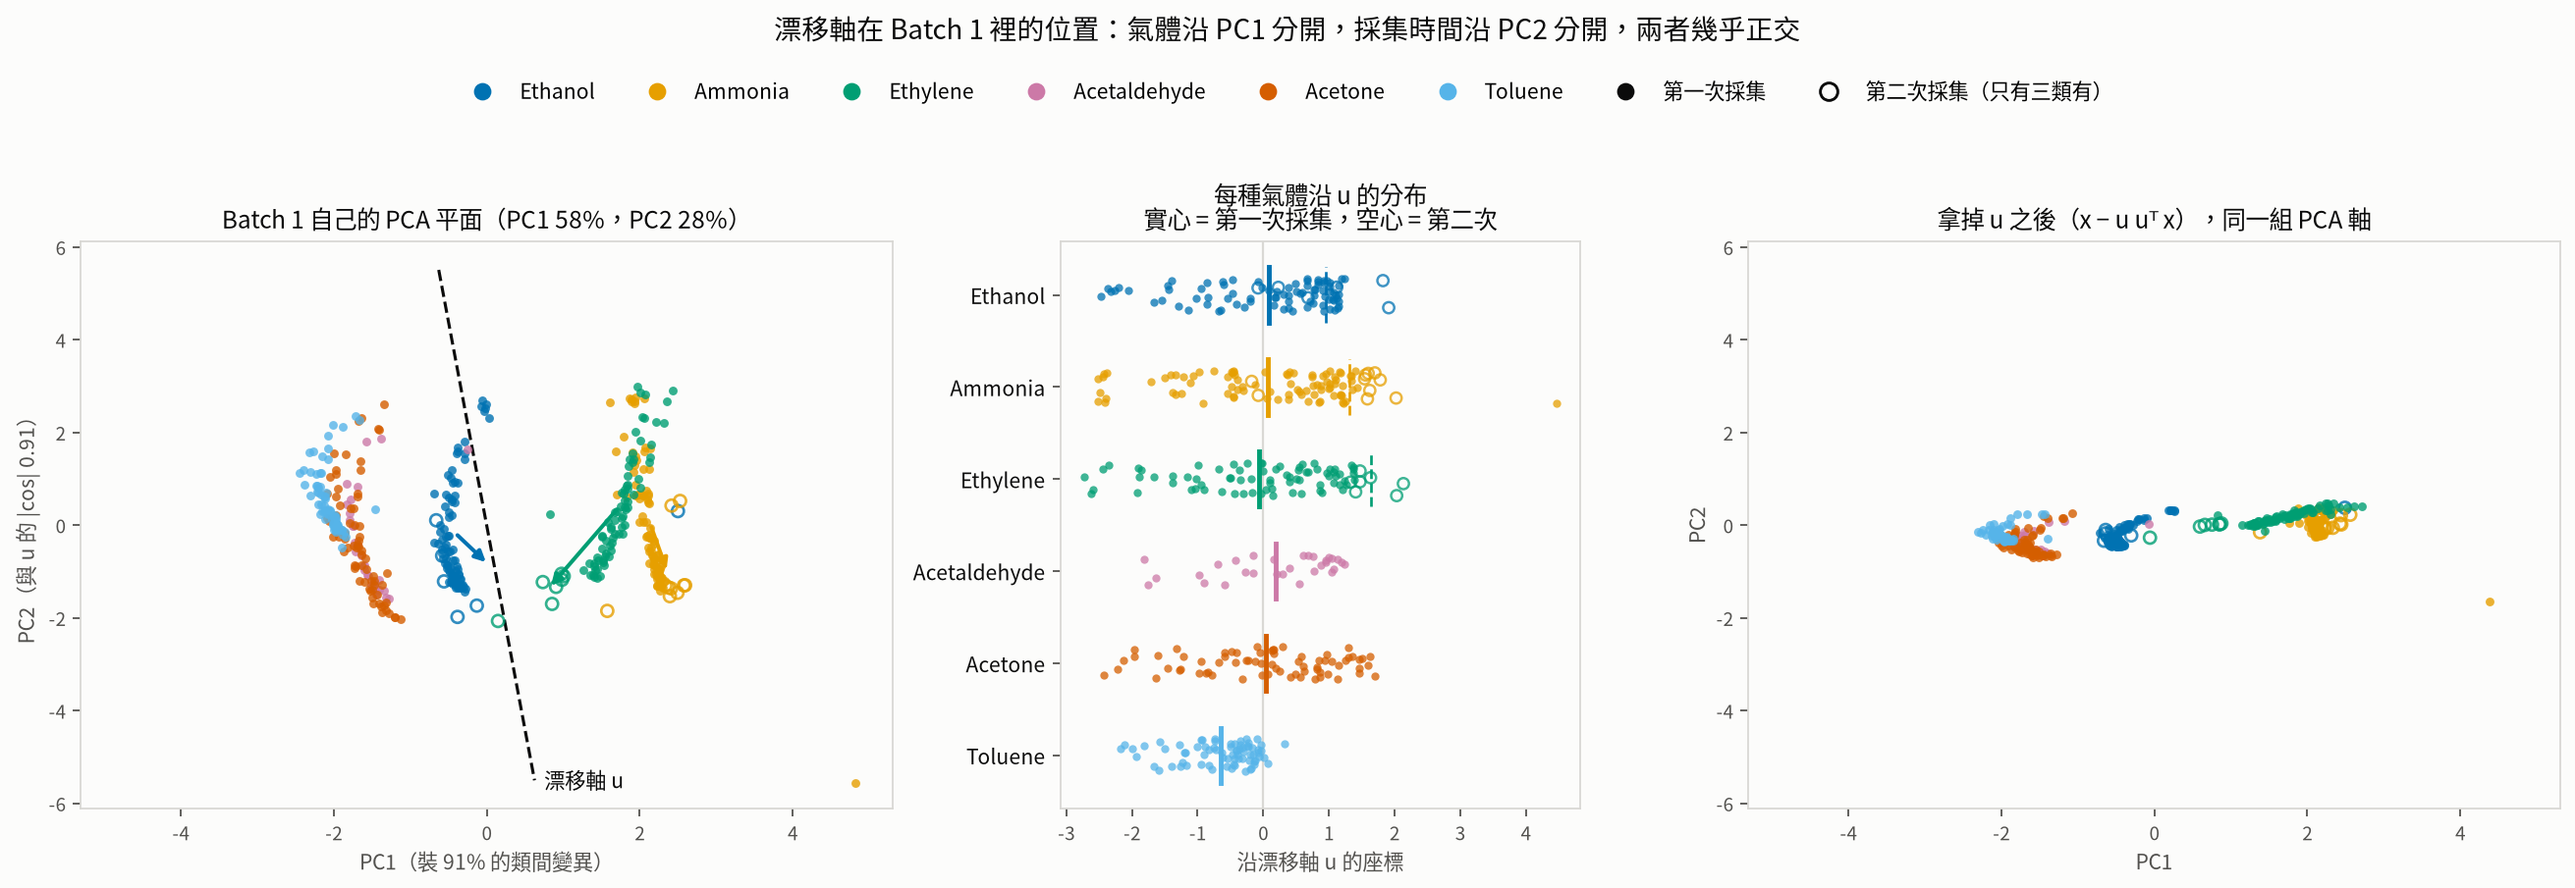
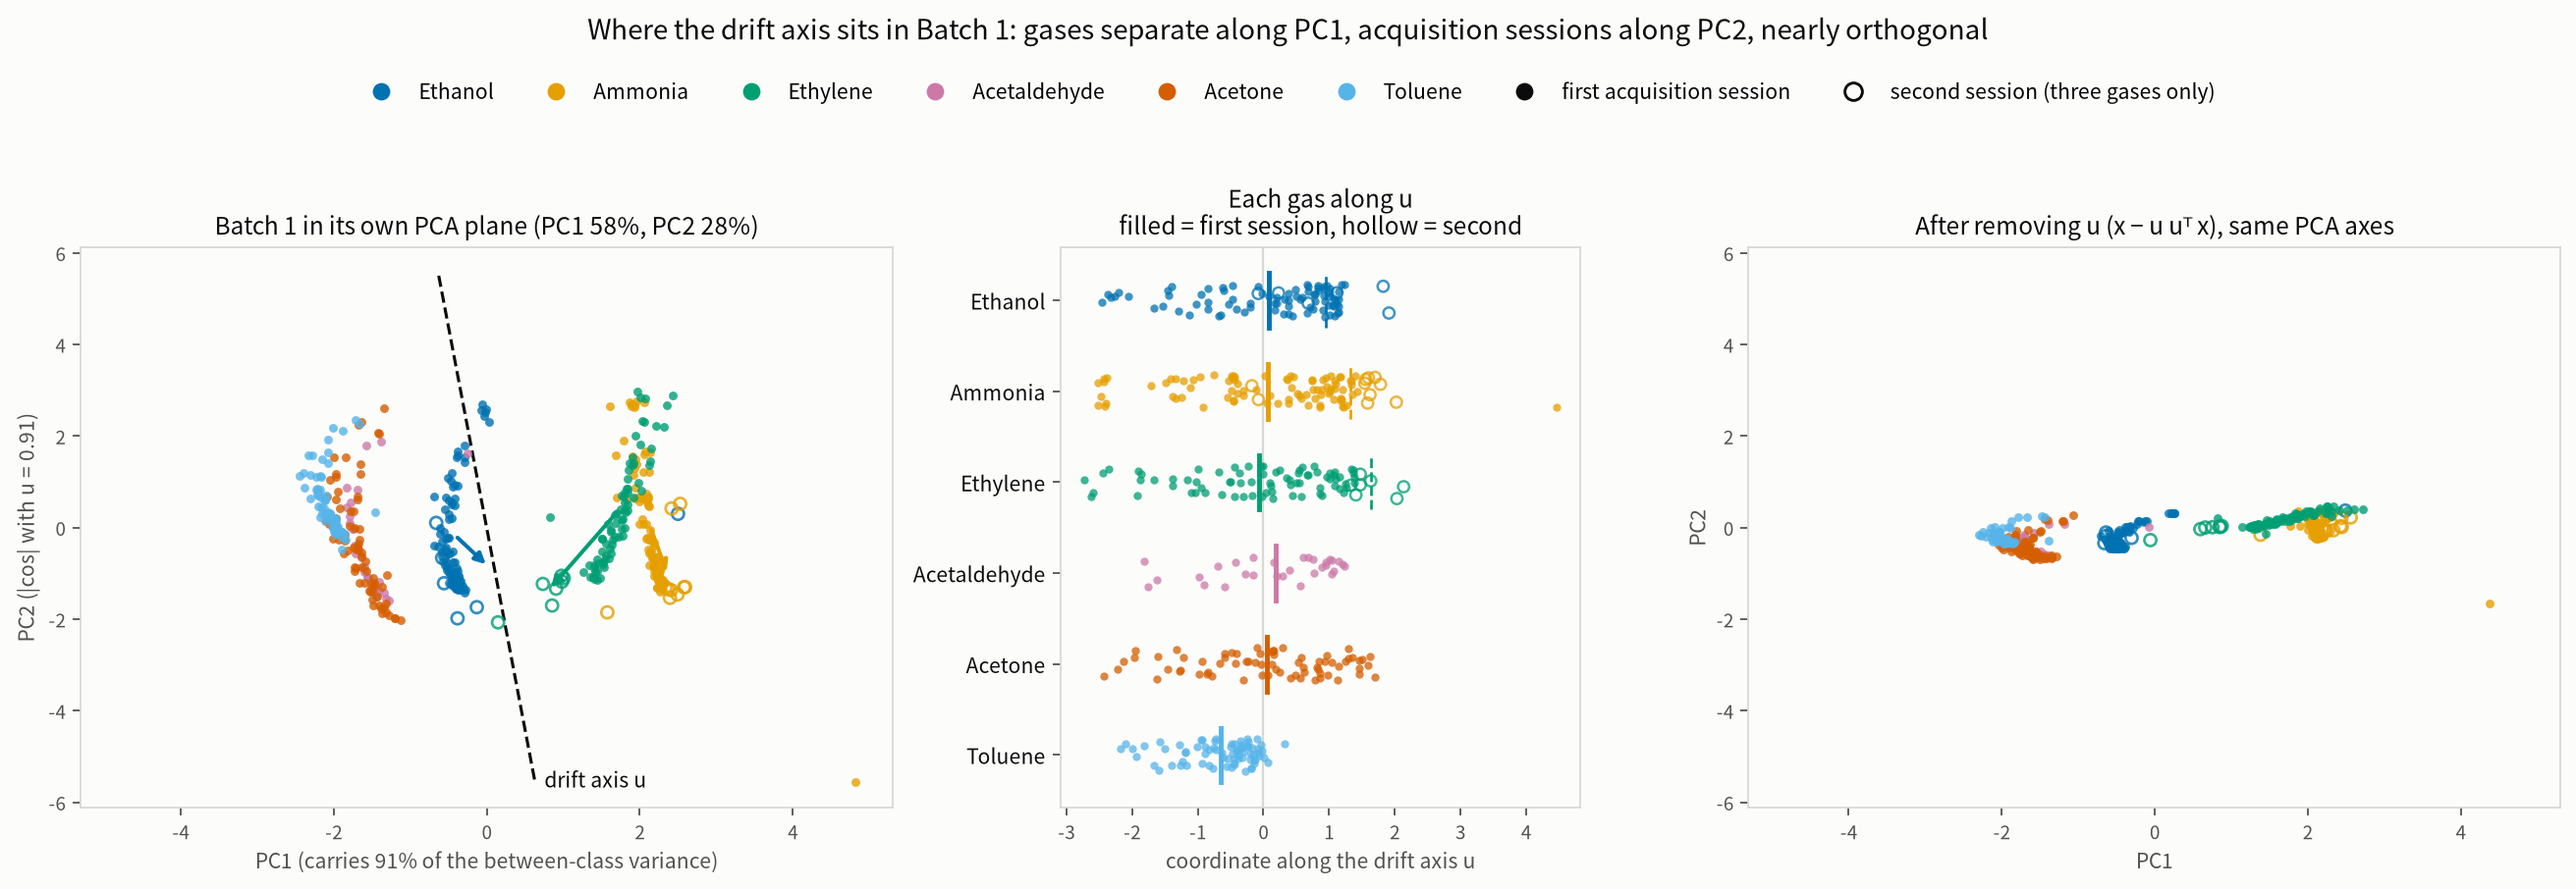
Write up v12 step 0 in English, with the drift-axis figure in English

diff --git a/scripts/make_batch1_drift_axis_figure.py b/scripts/make_batch1_drift_axis_figure.py
@@ -102,7 +102,7 @@ def main() -> int:
     # left: the plane, the session offsets, the common axis
     ax = axes[0]
     scatter_plane(ax, plane, y, second,
-                  title=f"Batch 1 自己的 PCA 平面（PC1 {share[0]:.0%}，PC2 {share[1]:.0%}）")
+                  title=f"Batch 1 in its own PCA plane (PC1 {share[0]:.0%}, PC2 {share[1]:.0%})")
     for label, off in offsets.items():
         a = (z[y == label][second[y == label] == 0].mean(axis=0) - centre) @ basis
         b = (z[y == label][second[y == label] == 1].mean(axis=0) - centre) @ basis
@@ -115,10 +115,10 @@ def main() -> int:
     ax.plot([-reach * direction[0], reach * direction[0]],
             [-reach * direction[1], reach * direction[1]],
             color=INK, lw=1.4, ls="--", zorder=2)
-    ax.text(reach * direction[0], reach * direction[1], "  漂移軸 u", fontsize=9.5,
+    ax.text(reach * direction[0], reach * direction[1], "  drift axis u", fontsize=9.5,
             color=INK, va="center")
-    ax.set_xlabel("PC1（裝 91% 的類間變異）", fontsize=9.5, color=MUTED)
-    ax.set_ylabel("PC2（與 u 的 |cos| 0.91）", fontsize=9.5, color=MUTED)
+    ax.set_xlabel("PC1 (carries 91% of the between-class variance)", fontsize=9.5, color=MUTED)
+    ax.set_ylabel("PC2 (|cos| with u = 0.91)", fontsize=9.5, color=MUTED)
     ax.set_xlim(-span[0], span[0]); ax.set_ylim(-span[1], span[1])
 
     # middle: coordinate along u, per class, by session
@@ -140,13 +140,13 @@ def main() -> int:
     ax.axvline(0, color=GRID, lw=1, zorder=1)
     ax.set_yticks(range(len(ORDER)))
     ax.set_yticklabels([GAS_LABELS[l] for l in reversed(ORDER)], fontsize=9.5, color=INK)
-    ax.set_xlabel("沿漂移軸 u 的座標", fontsize=9.5, color=MUTED)
-    ax.set_title("每種氣體沿 u 的分布\n實心 = 第一次採集，空心 = 第二次", fontsize=11, color=INK)
+    ax.set_xlabel("coordinate along the drift axis u", fontsize=9.5, color=MUTED)
+    ax.set_title("Each gas along u\nfilled = first session, hollow = second", fontsize=11, color=INK)
 
     # right: after projection, same basis
     ax = axes[2]
     scatter_plane(ax, plane_after, y, second,
-                  title="拿掉 u 之後（x − u uᵀ x），同一組 PCA 軸")
+                  title="After removing u (x − u uᵀ x), same PCA axes")
     ax.set_xlabel("PC1", fontsize=9.5, color=MUTED)
     ax.set_ylabel("PC2", fontsize=9.5, color=MUTED)
     ax.set_xlim(-span[0], span[0]); ax.set_ylim(-span[1], span[1])
@@ -158,10 +158,10 @@ def main() -> int:
                        markeredgecolor=INK),
                 Line2D([], [], ls="none", marker="o", markersize=8, markerfacecolor="none",
                        markeredgecolor=INK, markeredgewidth=1.3)]
-    names = [GAS_LABELS[l] for l in ORDER] + ["第一次採集", "第二次採集（只有三類有）"]
+    names = [GAS_LABELS[l] for l in ORDER] + ["first acquisition session", "second session (three gases only)"]
     figure.legend(handles, names, loc="upper center", ncol=8, frameon=False,
                   fontsize=9.5, bbox_to_anchor=(0.5, 0.985))
-    figure.suptitle("漂移軸在 Batch 1 裡的位置：氣體沿 PC1 分開，採集時間沿 PC2 分開，兩者幾乎正交",
+    figure.suptitle("Where the drift axis sits in Batch 1: gases separate along PC1, acquisition sessions along PC2, nearly orthogonal",
                     fontsize=12.5, color=INK, y=1.04)
     figure.tight_layout(rect=(0, 0, 1, 0.93))
     out = ROOT / "reports" / "figures" / "batch1_drift_axis.png"

diff --git a/docs/v12-step0-separability.md b/docs/v12-step0-separability.md
@@ -1,0 +1,154 @@
+# v12 step 0: Batch 1 stays separable with the drift axis removed
+
+Measured 2026-10-05 on Batch 1 alone. No target file was opened, no checkpoint
+was used, no GPU time was spent. Script: `scripts/measure_projection_separability.py`;
+numbers: `reports/projection_separability.json`; figure:
+`scripts/make_batch1_drift_axis_figure.py`.
+
+This is the gate `proposal-v12.md` declares before any training: if removing
+the drift subspace destroys the class structure of Batch 1, the rest of v12 is
+not worth running.
+
+## The candidate subspaces
+
+All three are built from the same raw material. Three of the six gases were
+acquired twice in Batch 1 (Ethanol, Ammonia, Ethylene; `src/augment.py:SOURCE_BLOCKS`).
+For each, the second-session centroid minus the first-session centroid is one
+128-dimensional offset vector. The candidates differ only in how the three
+vectors are used:
+
+| candidate | construction | k | status |
+|---|---|---:|---|
+| `eth` | Ethanol's offset alone | 1 | target-informed: that Ethanol's offset aligns best with the real drift was learned against target data |
+| `offset-axis` (called `pc1` in the JSON) | the three offsets normalised, stacked 3 x 128, uncentred SVD, first right singular vector | 1 | source-only: the single line the three offsets share, no gas chosen, sign-indifferent |
+| `sub3` | the span of all three offsets, QR basis | 3 | source-only: no choice at all |
+
+The projection is `x' = x - U U^T x` applied in the signed-log -> per-sample
+space, the same space the network reads.
+
+## Where the axis sits
+
+![Batch 1 drift axis](../reports/figures/batch1_drift_axis.png)
+
+Left: Batch 1 in its own PCA plane. The gases separate along PC1, which carries
+91 % of the between-class variance. The arrows join each gas's first-session
+centroid to its second-session centroid; all three point the same way, nearly
+perpendicular to PC1. The dashed line is the common offset axis `u`.
+
+Middle: each gas's coordinate along `u`. The second sessions (hollow) sit about
+one unit to the right of the first sessions (filled) for all three gases, and
+the six gases are centred on the same place, so `u` carries time and almost no
+gas identity.
+
+Right: the same points after `x - u u^T x`, in the same PCA basis. Each gas
+collapses to a line; second-session points land on first-session points; the
+positions along PC1 are unchanged.
+
+The relation to Batch 1's ordinary PCA, measured:
+
+| Batch 1 PCA axis | total variance | between-class variance | \|cos\| with `u` |
+|---|---:|---:|---:|
+| PC1 | 58.3 % | 91 % | 0.10 |
+| PC2 | 27.6 % | 3 % | **0.91** |
+| PC3 | 6.1 % | 0.5 % | 0.09 |
+
+`u` is not Batch 1's first principal component. PC1 is the gas axis; `u` is
+0.91 aligned with PC2. The three individual offsets align with `u` at 0.90,
+0.98 and 0.81, so the three gases' session displacements do share a line.
+
+**One thing the figure shows that the numbers did not.** Within each gas the
+points form a long streak, and the streak runs roughly along `u` too. That is
+within-class variation, most likely concentration, and it is nearly parallel to
+the session offset. Removing `u` therefore removes most of the within-class
+spread together with the session offset. For classification that is welcome,
+but `u` mixes "time" with "concentration" and the projection does not tell
+them apart.
+
+## The gate: five-fold cross-validation on Batch 1
+
+Folds are the fixed stratified folds of `src/cv.py` (seed 20260923). The two
+classifiers are stand-ins for the network, which needs the normaliser
+implemented first; the network's own CV is the formal gate in step 1.
+
+| 5-fold CV on Batch 1 | none | `eth` k=1 | `offset-axis` k=1 | `sub3` k=3 |
+|---|---:|---:|---:|---:|
+| nearest centroid | 0.850 | 0.859 | **0.928** | 0.901 |
+| logistic regression | 0.962 | 0.953 | 0.955 | 0.951 |
+
+**All three candidates pass.** Logistic regression drops by at most 0.011
+against the declared ceiling of 0.02.
+
+Nearest-centroid accuracy rises rather than falls, from 0.850 to 0.928 under
+`offset-axis`. Batch 1's within-class radius already contains its own
+two-session offset; removing that axis tightens every cloud and the centroids
+separate better. This is a source-internal check of the idea that needs no
+target data.
+
+## What the removed subspace carried
+
+| | `eth` | `offset-axis` | `sub3` |
+|---|---:|---:|---:|
+| share of Batch 1's total variance removed | 0.285 | 0.236 | **0.739** |
+| share of between-class variance removed | 0.213 | **0.028** | **0.764** |
+
+`offset-axis` has the profile a drift axis should have: it carries 24 % of the
+total variance and only 3 % of the between-class variance, so it is almost
+entirely within-class (session-to-session) variation.
+
+`sub3` removes 76 % of the between-class variance. Batch 1 is low-dimensional
+in the per-sample space (the first two principal components carry 86 %), so
+three offset vectors span most of its structure. Its CV accuracy is still 0.951,
+meaning the remaining 26 % of the variance still separates the six gases, but
+the cost is real.
+
+## The fifteen class-pair separations
+
+Centroid distance over the mean of the two within-class radii, before and after
+projection, sorted by the unprojected value:
+
+| pair | none | `eth` | `offset-axis` | `sub3` |
+|---|---:|---:|---:|---:|
+| Acetaldehyde-Acetone | 0.40 | 0.53 | 0.62 | 0.64 |
+| Ammonia-Ethylene | 1.07 | 1.40 | 1.97 | 2.48 |
+| Ethanol-Acetaldehyde | 1.12 | 1.42 | **1.85** | 1.01 |
+| Acetone-Toluene | 1.21 | 1.29 | 1.49 | 1.56 |
+| Ethanol-Acetone | 1.28 | 1.67 | 2.32 | 1.49 |
+| Acetaldehyde-Toluene | 1.29 | 1.15 | 1.29 | 1.29 |
+| Ethanol-Ethylene | 1.99 | 2.39 | 3.55 | 2.15 |
+| Ethanol-Toluene | 2.15 | 2.14 | 3.16 | 2.30 |
+| Ethanol-Ammonia | 2.25 | 2.92 | 4.26 | 2.18 |
+| Ethylene-Acetaldehyde | 2.92 | 3.45 | 4.76 | 2.43 |
+| Ethylene-Acetone | 3.03 | 3.73 | 5.41 | 2.97 |
+| Ammonia-Acetaldehyde | 3.19 | 4.09 | 5.49 | 2.59 |
+| Ammonia-Acetone | 3.30 | 4.44 | 6.23 | 3.06 |
+| Ethylene-Toluene | 4.00 | 4.18 | 6.32 | 3.75 |
+| Ammonia-Toluene | 4.43 | 5.22 | 7.45 | 4.22 |
+
+`offset-axis` widens all fifteen pairs. `sub3` narrows six of them, including
+Ethanol-Acetaldehyde (1.12 to 1.01), the pair behind the dead class.
+Acetaldehyde-Acetone is the closest pair under every version (0.40 to 0.64);
+that overlap is native to Batch 1 and has nothing to do with drift.
+
+## Consequence for the design
+
+The proposal named `sub3` the headline cell because it involves no choice.
+On Batch 1 evidence alone, `offset-axis` is better on every measure and `sub3`
+removes too much class information. Choosing on Batch 1 is permitted under the
+source-only protocol, so the recommendation is to make `offset-axis` the
+headline, demote `sub3` to the second cell, and keep `eth` as the
+target-informed comparison. The change is recorded here before any target file
+is opened; the decision is the user's.
+
+## Limits
+
+- The two classifiers are linear. The network's cross-validation may differ;
+  it is the formal gate once the normaliser exists.
+- The separation statistic uses the mean distance to the centroid as the radius,
+  which differs from the definition in `baseline.md` section 5.2. Only the
+  relative changes are comparable.
+- `offset-axis` is built from three offsets whose second sessions hold 6, 10
+  and 7 rows.
+- That any of these axes tracks the real three-year drift was established
+  against target data in `docs/batch1-internal-drift.md` and
+  `docs/drift-geometry.md`. The estimator is source-only; knowing that it works
+  is not.

diff --git a/proposal-v12.md b/proposal-v12.md
@@ -128,6 +128,7 @@ x → signed-log → per-sample → x − U Uᵀ x → reshape [N,1,128] → Res
 ## 第 0 步的結果（2026-10-05，只用 Batch 1）
 
 `scripts/measure_projection_separability.py`，數值在 `reports/projection_separability.json`。
+英文版的完整記錄（含圖）在 `docs/v12-step0-separability.md`。
 網路版的交叉驗證要等 normalizer 實作完，這裡用兩個便宜的分類器當代理。
 
 **關卡：三個候選都過。** 邏輯斯迴歸的 5-fold CV 最多掉 0.011，門檻是 0.02。
